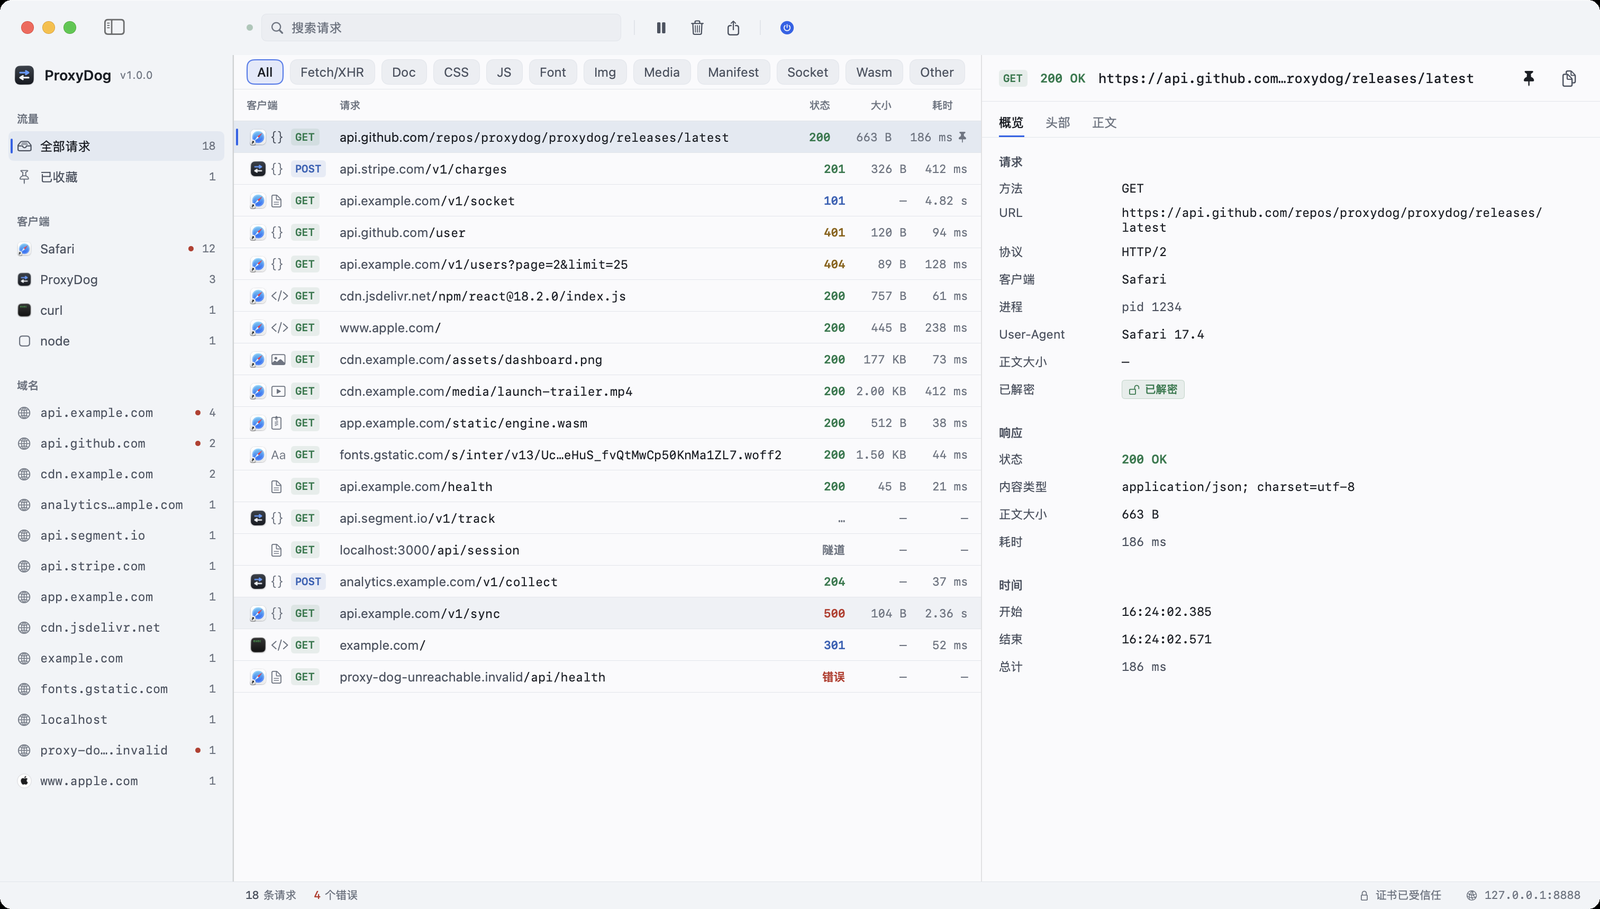
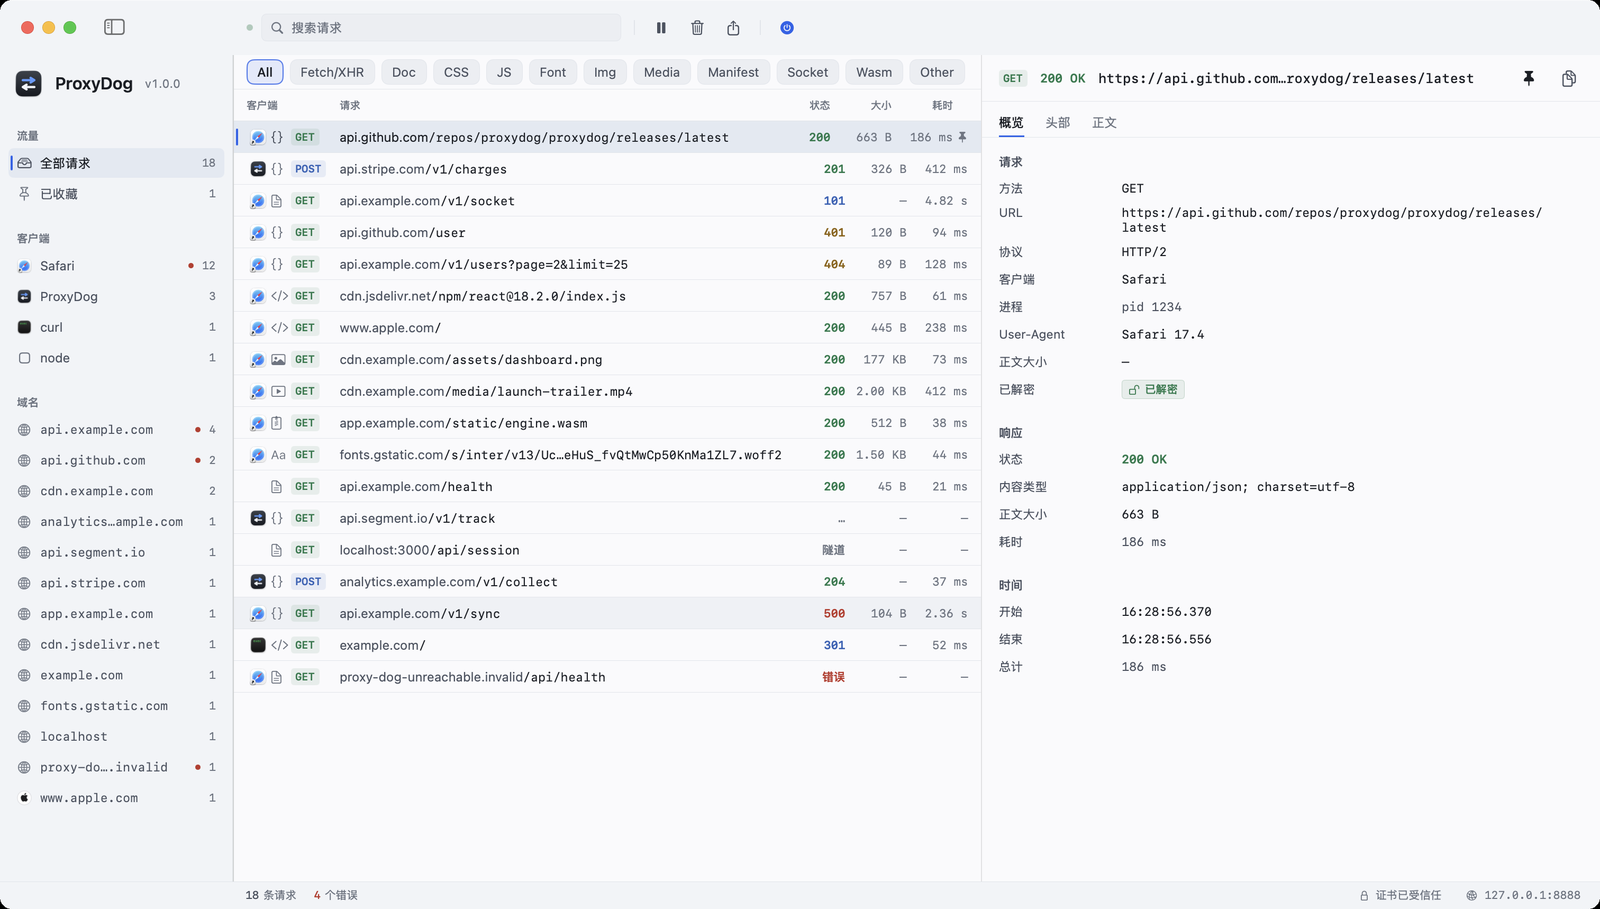
Enlarge the sidebar brand mark and wordmark

Changed region(s): [[0.0, 0.0616, 0.125, 0.8933], [0.7188, 0.6469, 0.75, 0.7085], [0.125, 0.154, 0.1562, 0.1848]]

diff --git a/Sources/ProxyDog/UI/SidebarView.swift b/Sources/ProxyDog/UI/SidebarView.swift
@@ -35,20 +35,21 @@ struct SidebarView: View {
     // MARK: Header
 
     private var header: some View {
-        HStack(spacing: DS.Space.x2) {
-            AppBrandIcon(size: 22)
+        HStack(spacing: DS.Space.x2 + 2) {
+            AppBrandIcon(size: 30)
             Text("ProxyDog")
-                .font(DS.Typography.ui(13.5, .semibold))
+                .font(DS.Typography.ui(16, .semibold))
                 .foregroundStyle(DSColor.textPrimary)
             Text(AppInfo.versionLabel)
-                .font(DS.Typography.ui(10))
+                .font(DS.Typography.ui(11))
                 .foregroundStyle(DSColor.textMuted)
                 .monospacedDigit()
+                .padding(.leading, 1)
             Spacer(minLength: 0)
         }
         .padding(.horizontal, DS.Space.x3)
-        .padding(.top, DS.Space.x2)
-        .padding(.bottom, DS.Space.x3)
+        .padding(.top, DS.Space.x3)
+        .padding(.bottom, DS.Space.x4)
     }
 
     // MARK: Sections
